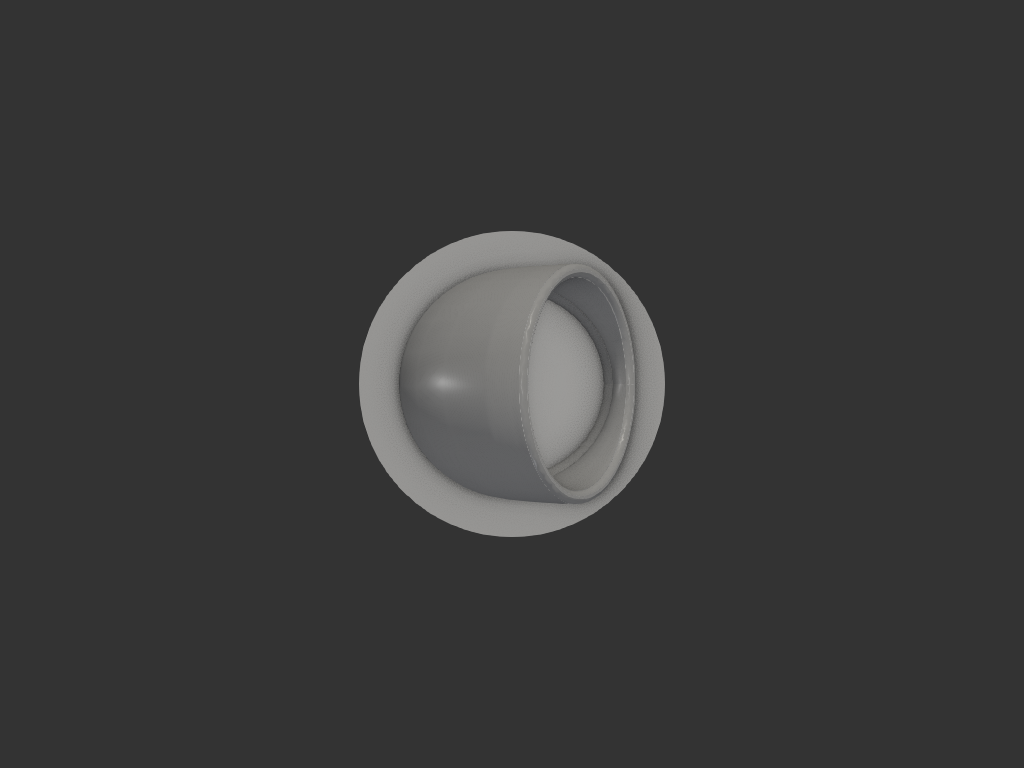
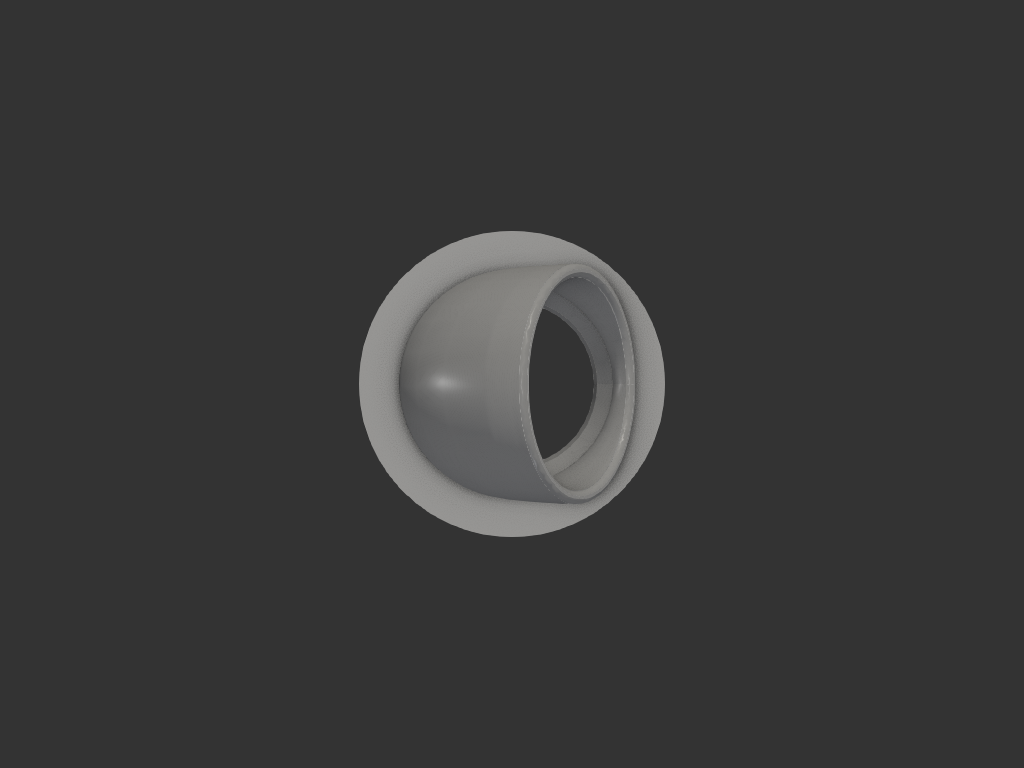
주방/식기세척기관_싱크대커버: 모따기가 막고 있던 통로 복구
Cone 은 축까지 채우는 속찬 원뿔이라, 이음 모따기를 보어를 판 뒤에
Mode.ADD 로 더하면서 통로를 z 0~2 구간에서 도로 막고 있었다.
모따기를 보어 절삭보다 앞으로 옮겼다.

칼라 끝부터 엘보 출구까지 전 구간 관통을 다시 확인했고, 모따기 45도도
각 높이에서 예측과 0.01mm 이내로 유지된다.

직전에 모따기와 오링 홈만 재고 보어는 다시 안 봐서 놓쳤다.
"형상을 더한 뒤에는 통로가 끝까지 뚫렸는지 반드시 다시 잰다" 를
구현 메모에 남겼다.

Claude-Session: https://claude.ai/code/session_01ADtXUDQy3sb4YV2DNysYDr

Changed region(s): [[0.5, 0.375, 0.5938, 0.5938]]

diff --git a/models/주방/식기세척기관_싱크대커버/cover.py b/models/주방/식기세척기관_싱크대커버/cover.py
@@ -102,18 +102,20 @@ def build_cover():
         revolve(prof_out, axis=axis, revolution_arc=ELBOW_TURN)
         add(thread)                                         # 나사산
 
+        # 칼라–플랜지 이음 모따기 — **가장 빠듯한 곳**이다.
+        # 바깥 원기둥에서 45도 원뿔을 빼면 모따기할 영역만 남는다.
+        # **반드시 보어를 파기 전에 해야 한다.** Cone 은 축까지 채우는 속찬
+        # 원뿔이라, 보어를 판 뒤에 더하면 통로를 도로 막는다
+        cham_h = (CHAM_D - COLLAR_OD) / 2
+        Cylinder(CHAM_D / 2, cham_h, align=BOT, mode=Mode.SUBTRACT)
+        Cone(COLLAR_OD / 2, CHAM_D / 2, cham_h, align=BOT, mode=Mode.ADD)
+
         # ---- 통로 ----
         # 칼라는 28.5 (구멍 제약). 플랜지 안에서 33 으로 벌어진다 —
         # 굵은 부분(25.5)이 휜 구간을 지날 여유를 벌기 위해서다
         Cylinder(BORE_D / 2, COLLAR_LEN, align=TOP, mode=Mode.SUBTRACT)
         Cone(BORE_D / 2, ELBOW_BORE / 2, FLANGE_T, align=BOT, mode=Mode.SUBTRACT)
         revolve(prof_in, axis=axis, revolution_arc=ELBOW_TURN, mode=Mode.SUBTRACT)
-
-        # 칼라–플랜지 이음 모따기 — **가장 빠듯한 곳**이다.
-        # 바깥 원기둥에서 45도 원뿔을 빼면 모따기할 영역만 남는다
-        cham_h = (CHAM_D - COLLAR_OD) / 2
-        Cylinder(CHAM_D / 2, cham_h, align=BOT, mode=Mode.SUBTRACT)
-        Cone(COLLAR_OD / 2, CHAM_D / 2, cham_h, align=BOT, mode=Mode.ADD)
 
         # 오링 홈 — 홈 안쪽이 ⌀35.9 라 구멍(31.5) 바깥 단단한 상판 위에 앉는다
         extrude(oring, ORING_DEPTH, mode=Mode.SUBTRACT)

diff --git a/models/주방/식기세척기관_싱크대커버/README.md b/models/주방/식기세척기관_싱크대커버/README.md
@@ -37,7 +37,7 @@
 
 | | 파츠 | 역할 | 무게 |
 |---|---|---|---|
-| ① | `cover` | 상판 위 플랜지(아랫면 오링 홈) + 엘보 + 구멍을 지나는 칼라 | 16.3 g |
+| ① | `cover` | 상판 위 플랜지(아랫면 오링 홈) + 엘보 + 구멍을 지나는 칼라 | 14.6 g |
 | ② | `nut` | 아래에서 칼라에 끼워 올려 조인다. 상판을 물고 오링을 누른다 | 5.7 g |
 
 조립:
@@ -225,6 +225,10 @@ x≈6mm 이고 접지 폭이 30mm 라 쓰러지지는 않는다. 나사 아래 1
 
 ## 구현 메모
 
+- **`Cone` 은 축까지 채우는 속찬 원뿔이다.** 이음 모따기를 보어를 판 **뒤에**
+  더했더니 통로가 z 0~2 구간에서 도로 막혔다. 모따기는 보어보다 먼저 한다.
+  그리고 **형상을 더한 뒤에는 통로가 끝까지 뚫렸는지 반드시 다시 잰다** —
+  모따기와 오링 홈만 확인하고 보어는 안 봐서 놓쳤다
 - 헬릭스 스윕은 **짧게 끊어 이어 붙인다.** 한 번에 5 바퀴를 쓸면 프레네
   프레임이 비틀려 솔리드가 자기교차하고, 불린이 **조용히 망가진다** —
   합친 부피가 칼라 단품보다 작아지는 식으로 드러났다. `is_frenet=False` 로
@@ -243,7 +247,8 @@ x≈6mm 이고 접지 폭이 30mm 라 쓰러지지는 않는다. 나사 아래 1
 
 ## 상태
 
-- **iter_007 — 현재.** 2 파츠(커버 / 너트). 이음 45° 모따기 + 플랜지 ⌀50×5 +
-  나사 4.5 바퀴로 조임 강도 보강. 출력 대기
+- **iter_008 — 현재.** 이음 모따기를 보어보다 **먼저** 하도록 순서 수정.
+  Cone(ADD) 이 보어를 z 0~2 구간에서 막고 있었다. 출력 대기
+- iter_007 — 이음 45° 모따기 + 플랜지 ⌀50×5 + 나사 4.5 바퀴로 조임 강도 보강
 - 출력 후 확인할 것: 나사 0.4 깊이가 살아나는지, 굵은 부분(⌀25.5)이 엘보를
   지나는지, 오링 눌림이 충분한지
